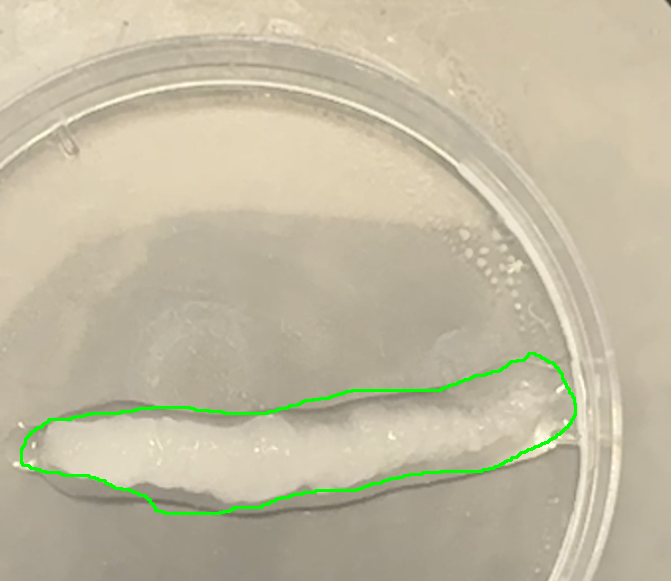
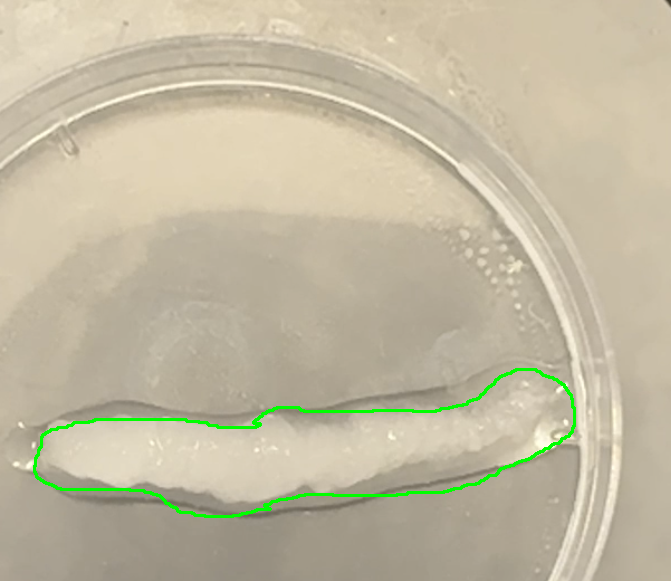
Final project, added a container function to collect whole area and added manual feature to accurately identify ice chunks

Changed region(s): [[0.0298, 0.5886, 0.8346, 0.8985], [0.4173, 0.8055, 0.7452, 0.8675], [0.7452, 0.6506, 0.8644, 0.8055]]

diff --git a/src/load_images.py b/src/load_images.py
@@ -2,11 +2,21 @@
 Ice slurry melting analysis pipeline.
 
 Two parallel methods are run:
-  1. Box method       -- plain rectangular ROI mean intensity
-  2. Fixed-mask method -- user hand-sketches the slurry outline on
-                          frame 1 (mouse drag in a popup window),
-                          that shape is locked in and reused on every
-                          frame to track brightness + ice-fraction.
+  1. Box method    -- plain rectangular ROI mean intensity
+  2. Sketch method -- two-tier manual sketching:
+       a. FIXED CONTAINER REGION: sketched ONCE, on frame 1. Defines
+          the overall area where slurry/liquid sits. This stays
+          constant across all frames and is the ice_fraction
+          DENOMINATOR throughout.
+       b. PER-FRAME ICE SKETCH: sketched on EVERY frame (including
+          frame 1), tracing just the actual ice within the container.
+          This is the ice_fraction NUMERATOR for that frame.
+
+     ice_fraction = (ice pixels sketched this frame) / (fixed container pixels)
+
+     Because the denominator is fixed but the numerator is re-sketched
+     each frame, frame 1 does NOT have to equal 1.0 -- if some liquid
+     was already present at the start, frame 1's fraction reflects that.
 """
 
 import cv2
@@ -55,31 +65,29 @@ def get_brightness(gray_img, box):
 
 
 # ---------- Interactive freehand sketch -> filled mask ----------
-def sketch_mask(first_gray_img, box, save_path="output/fixed_mask_sketch.png", target_size=1200):
+def sketch_mask(gray_img, box, save_path, prompt_label, target_size=1200):
     """
-    Opens a window showing frame 1's ROI, upscaled so its largest
-    dimension is roughly `target_size` pixels, for easier sketching.
-    Click and drag to sketch an outline around the slurry. Press any
-    key when done. Returns the filled-in binary mask, sized to match
-    the ORIGINAL (non-upscaled) ROI dimensions.
+    Opens a window showing this frame's ROI, upscaled so its largest
+    dimension is roughly `target_size` pixels. Click and drag to sketch
+    an outline. Press any key when done. Returns the filled-in binary
+    mask, sized to match the ORIGINAL (non-upscaled) ROI dimensions.
+
+    `prompt_label` is shown in the window title so you know what to
+    sketch (e.g. "CONTAINER region" vs "ICE only").
     """
     x1, y1, x2, y2 = box
-    roi_patch = first_gray_img[y1:y2, x1:x2]
+    roi_patch = gray_img[y1:y2, x1:x2]
 
-    # scale so the larger dimension hits target_size, regardless of the ROI's original shape
     h, w = roi_patch.shape
     scale = target_size / max(h, w)
 
-    # upscale the actual image (not just the window) so click coordinates stay accurate
     display_img = cv2.resize(roi_patch, None, fx=scale, fy=scale, interpolation=cv2.INTER_LINEAR)
     display_img = cv2.cvtColor(display_img, cv2.COLOR_GRAY2BGR)
-    print(f"Sketch window: {roi_patch.shape[1]}x{roi_patch.shape[0]} -> "
-          f"displayed at {display_img.shape[1]}x{display_img.shape[0]} (scale={scale:.2f})")
 
     drawing = {"active": False}
     sketch_points = []
 
-    window_name = "Sketch around the slurry, then press any key when done"
+    window_name = f"Sketch the {prompt_label}, then press any key -- {save_path}"
 
     def draw_event(event, x, y, flags, param):
         if event == cv2.EVENT_LBUTTONDOWN:
@@ -99,12 +107,9 @@ def sketch_mask(first_gray_img, box, save_path="output/fixed_mask_sketch.png", t
     cv2.setMouseCallback(window_name, draw_event)
     cv2.imshow(window_name, display_img)
 
-    # Use a polling loop instead of a single blocking waitKey(0) --
-    # this keeps the GUI event loop cycling so mouse-driven redraws
-    # (the green sketch line) actually render as you drag.
     while True:
         key = cv2.waitKey(20) & 0xFF
-        if key != 255:  # 255 means "no key pressed" during this poll
+        if key != 255:
             break
 
     cv2.destroyAllWindows()
@@ -112,65 +117,47 @@ def sketch_mask(first_gray_img, box, save_path="output/fixed_mask_sketch.png", t
     if len(sketch_points) < 3:
         raise ValueError("Not enough points sketched to form a shape. Try again.")
 
-    # scale points back down to the ORIGINAL image's pixel coordinates
     points_array = np.array(sketch_points, dtype=np.float32) / scale
     points_array = points_array.astype(np.int32)
 
-    fixed_mask = np.zeros(roi_patch.shape, dtype="uint8")  # original (non-upscaled) size
-    cv2.fillPoly(fixed_mask, [points_array], 255)
+    mask = np.zeros(roi_patch.shape, dtype="uint8")
+    cv2.fillPoly(mask, [points_array], 255)
 
     Path("output").mkdir(exist_ok=True)
-    cv2.imwrite(save_path, fixed_mask)
-    print(f"Sketch-based mask saved to {save_path} -- open it to check the shape.")
+    cv2.imwrite(save_path, mask)
 
-    return fixed_mask
+    return mask
 
 
-# ---------- Apply the fixed mask to a frame ----------
-def analyze_frame(gray_img, color_img, box, fixed_mask, filename):
+# ---------- Analyze one frame: ice sketch relative to fixed container ----------
+def analyze_frame(gray_img, color_img, box, ice_mask, container_pixel_count, filename):
     """
-    Applies the fixed mask (locked shape from frame 1) to the current frame.
+    Uses this frame's hand-sketched ice_mask, measured against the
+    FIXED container pixel count (same for every frame), to compute:
+      - mean_brightness: grayscale mean within the sketched ice region
+      - ice_fraction: (ice pixels sketched this frame) / (fixed container pixels)
+      - mean_rgb: (R, G, B) mean color within the sketched ice region
 
-    Returns:
-      - mean_brightness: grayscale mean within the masked region right now
-      - ice_fraction: what % of that fixed region still reads as bright/ice
-      - mean_rgb: (R, G, B) mean color within the masked region right now
-
-    Also saves two visual sanity-check images per frame:
-      - output/masked_<filename>       : original colors, non-slurry blacked out
-      - output/mask_overlay_<filename> : green outline of the fixed mask over the frame
+    Also saves a visual sanity-check image:
+      - output/masked_<filename> : original colors, non-ice blacked out
     """
     x1, y1, x2, y2 = box
     gray_patch = gray_img[y1:y2, x1:x2]
     color_patch = color_img[y1:y2, x1:x2]
 
-    # --- grayscale metrics (unchanged) ---
-    region_pixels = gray_patch[fixed_mask == 255]
+    region_pixels = gray_patch[ice_mask == 255]
     mean_brightness = region_pixels.mean()
 
-    _, current_threshold = cv2.threshold(gray_patch, 0, 255, cv2.THRESH_BINARY + cv2.THRESH_OTSU)
-    still_ice = cv2.bitwise_and(current_threshold, fixed_mask)
-    ice_fraction = still_ice[still_ice == 255].size / fixed_mask[fixed_mask == 255].size
+    ice_fraction = np.sum(ice_mask == 255) / container_pixel_count
 
-    # --- NEW: save the actual per-pixel classification so you can see what's counted as "ice" ---
-    cv2.imwrite(f"output/still_ice_{filename}", still_ice)
-
-    # --- NEW: RGB mean within the same fixed mask ---
-    masked_color_pixels = color_patch[fixed_mask == 255]  # BGR order (OpenCV default)
+    masked_color_pixels = color_patch[ice_mask == 255]  # BGR order
     mean_bgr = masked_color_pixels.mean(axis=0)
-    mean_rgb = (mean_bgr[2], mean_bgr[1], mean_bgr[0])  # reorder to R, G, B for readability
+    mean_rgb = (mean_bgr[2], mean_bgr[1], mean_bgr[0])
 
-    # --- NEW: save a visual sanity-check image for this frame ---
     Path("output").mkdir(exist_ok=True)
-
     masked_visual = color_patch.copy()
-    masked_visual[fixed_mask == 0] = 0  # black out everything outside the fixed slurry shape
+    masked_visual[ice_mask == 0] = 0
     cv2.imwrite(f"output/masked_{filename}", masked_visual)
-
-    overlay = color_patch.copy()
-    contours, _ = cv2.findContours(fixed_mask, cv2.RETR_EXTERNAL, cv2.CHAIN_APPROX_SIMPLE)
-    cv2.drawContours(overlay, contours, -1, (0, 255, 0), 2)  # green outline
-    cv2.imwrite(f"output/mask_overlay_{filename}", overlay)
 
     return mean_brightness, ice_fraction, mean_rgb
 
@@ -212,40 +199,56 @@ if __name__ == "__main__":
     plt.title("Ice Slurry Melting Progression (Box Method)")
     plt.show()
 
-    # --- Method 2: sketch-based fixed mask ---
+    # --- Method 2, Step A: sketch the FIXED CONTAINER region, once, on frame 1 ---
     first_filename, first_gray_img = gray_images[0]
-    print(f"\nOpening sketch window on {first_filename} -- "
-          f"click and drag to trace the slurry outline, then press any key.")
-    fixed_mask = sketch_mask(first_gray_img, ice_roi)
+    print(f"\nStep A: sketch the CONTAINER region (overall slurry/liquid area) on {first_filename}.")
+    print("This defines the fixed denominator used for every frame's ice_fraction.")
+    container_mask = sketch_mask(
+        first_gray_img, ice_roi,
+        save_path="output/container_mask.png",
+        prompt_label="CONTAINER region (overall slurry/liquid area)"
+    )
+    container_pixel_count = np.sum(container_mask == 255)
+    print(f"Container area locked in: {container_pixel_count} pixels.")
 
-    print("\n[Fixed-mask method] Tracking brightness + ice fraction + color:")
+    # --- Method 2, Step B: sketch the actual ICE on EVERY frame ---
+    print("\nStep B: sketch just the ICE (not liquid) on each frame as it opens.")
     mask_results = []
     for i, (filename, gray_img) in enumerate(gray_images):
-        _, color_img = images[i]  # matching original color image, same order as gray_images
+        _, color_img = images[i]
+
+        print(f"  -> Sketching ICE in {filename} ({i + 1}/{len(gray_images)})...")
+        ice_mask = sketch_mask(
+            gray_img, ice_roi,
+            save_path=f"output/ice_mask_{filename}",
+            prompt_label="ICE only (not liquid)"
+        )
+
         mean_brightness, ice_fraction, mean_rgb = analyze_frame(
-            gray_img, color_img, ice_roi, fixed_mask, filename
+            gray_img, color_img, ice_roi, ice_mask, container_pixel_count, filename
         )
         time_elapsed = times[i]
         mask_results.append((time_elapsed, mean_brightness, ice_fraction, mean_rgb))
-        print(f"  t={time_elapsed}s | {filename}: "
-              f"brightness={mean_brightness:.2f}, ice_fraction={ice_fraction:.3f}, "
+        print(f"     t={time_elapsed}s | brightness={mean_brightness:.2f}, "
+              f"ice_fraction={ice_fraction:.3f}, "
               f"RGB=({mean_rgb[0]:.1f}, {mean_rgb[1]:.1f}, {mean_rgb[2]:.1f})")
 
-    print("\nSaved per-frame visual sanity checks to output/masked_*.png and output/mask_overlay_*.png")
+    print("\nSaved container mask to output/container_mask.png")
+    print("Saved per-frame ice masks to output/ice_mask_*.png and visuals to output/masked_*.png")
 
     mask_times, mask_brightness, mask_ice_fraction, mask_rgb = zip(*mask_results)
 
     fig, (ax1, ax2) = plt.subplots(1, 2, figsize=(12, 5))
     ax1.plot(mask_times, mask_brightness, marker="o", color="tab:blue")
     ax1.set_xlabel("Time (seconds)")
-    ax1.set_ylabel("Mean Brightness (fixed mask region)")
-    ax1.set_title("Brightness Over Time (Fixed Mask)")
+    ax1.set_ylabel("Mean Brightness (sketched ice region)")
+    ax1.set_title("Brightness Over Time (Sketch Method)")
 
     ax2.plot(mask_times, mask_ice_fraction, marker="o", color="tab:orange")
     ax2.set_xlabel("Time (seconds)")
-    ax2.set_ylabel("Ice Fraction (0-1)")
+    ax2.set_ylabel("Ice Fraction (relative to fixed container)")
     ax2.set_title("Remaining Ice Fraction Over Time")
 
     plt.tight_layout()
-    plt.savefig("output/melt_progression_fixed_mask.png")
+    plt.savefig("output/melt_progression_sketch.png")
     plt.show()
